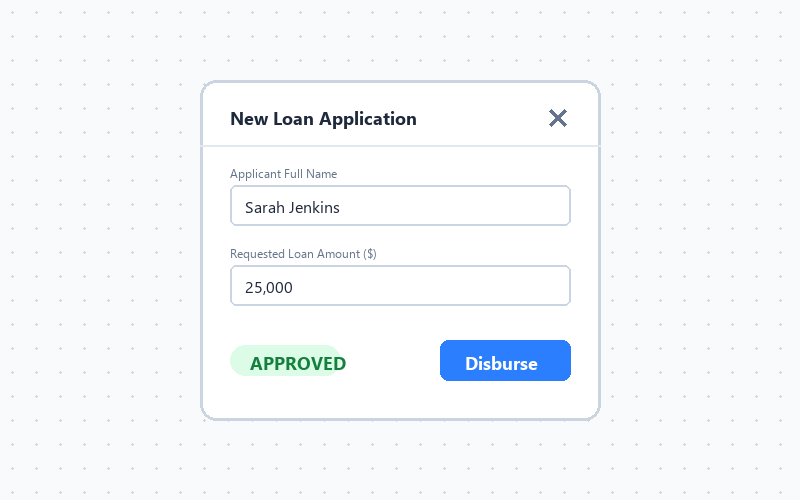
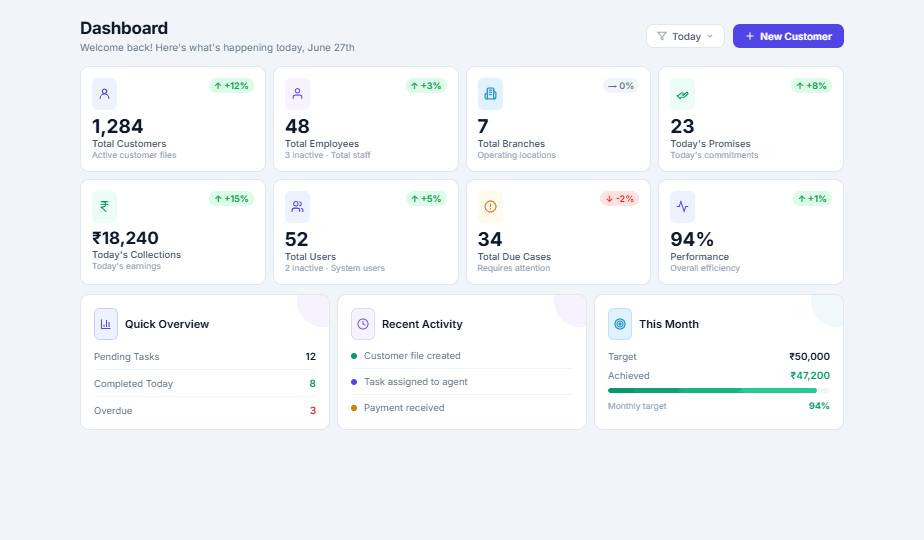
added

diff --git a/app/components/landing/AIOperationsSection.tsx b/app/components/landing/AIOperationsSection.tsx
@@ -23,59 +23,41 @@ interface Feature {
 const FEATURES: Feature[] = [
   {
     no: "01",
-    label: "AI Tele-Calling",
-    badge: "AI Voice Agents",
-    title: "Tele-calling, run end to end by AI",
-    accent: "by AI",
-    desc: "AI agents dial, converse, qualify and log every call — your tele-calling scales without scaling headcount.",
+    label: "HRMS",
+    badge: "HR Suite",
+    title: "Attendance, payroll and leave on autopilot",
+    accent: "on autopilot",
+    desc: "Run attendance, payroll, leave and people ops on autopilot — so your team focuses on people, not paperwork.",
     bullets: [
-      "Human-like AI voice conversations",
-      "Real-time lead qualification & scoring",
-      "Auto call summaries and next steps",
+      "Biometric & geo-fenced attendance",
+      "Automated payroll with PF, ESI & TDS",
+      "Leave workflows & multi-branch management",
     ],
     rows: [
-      { name: "Call — Lead #4821", meta: "AI handled" },
-      { name: "Sentiment: interested", meta: "0.86" },
-      { name: "Follow-up booked", meta: "Tomorrow" },
-    ],
-    comingSoon: true,
-  },
-  {
-    no: "02",
-    label: "AI HRMS",
-    badge: "AI for People Ops",
-    title: "HR that runs itself, powered by AI",
-    accent: "powered by AI",
-    desc: "From smart hiring to attrition prediction and auto-payroll — AI handles people operations end to end.",
-    bullets: [
-      "AI resume screening & shortlisting",
-      "Attrition-risk prediction",
-      "Automated payroll, attendance & leave",
-    ],
-    rows: [
-      { name: "Payroll — June", meta: "Auto-run" },
-      { name: "Attrition risk: 3 flagged", meta: "AI alert" },
-      { name: "5 resumes shortlisted", meta: "AI" },
+      { name: "Payroll — June", meta: "Processed" },
+      { name: "Attendance synced", meta: "Live" },
+      { name: "3 leave requests", meta: "Approved" },
     ],
     href: "/features/hrms",
   },
   {
-    no: "03",
-    label: "AI Task Management",
-    badge: "AI Planner",
-    title: "AI plans the day for your team",
-    accent: "AI plans",
-    desc: "Auto-prioritizes, assigns and flags blockers before they happen — your team always knows what's next.",
+    no: "02",
+    label: "Task Management",
+    badge: "Task Suite",
+    title: "Keep every task on track, end to end",
+    accent: "end to end",
+    desc: "Real-time dashboards, bulk and recurring assignment, and a client ledger that turns completed work into billing — your team always knows what's next.",
     bullets: [
-      "AI auto-prioritization & assignment",
-      "Predictive workload balancing",
-      "Blocker & deadline-risk alerts",
+      "Individual & team task dashboards",
+      "Bulk & recurring task assignment",
+      "Client ledger billing on completion",
     ],
     rows: [
-      { name: "Today: 12 tasks prioritized", meta: "AI" },
-      { name: "Reassigned 3 (overload)", meta: "Auto" },
-      { name: "2 deadline risks flagged", meta: "Alert" },
+      { name: "Today: 12 tasks", meta: "On track" },
+      { name: "Bulk assigned: 8", meta: "Done" },
+      { name: "Ledger entry created", meta: "Billed" },
     ],
+    href: "/features/task-management",
   },
 ];
 
@@ -167,7 +149,7 @@ function Panel({ f, idx }: { f: Feature; idx: number }) {
               </span>
               <span className="inline-flex items-center gap-1.5 rounded-full bg-secondaryColor/20 px-2.5 py-1 text-[0.65rem] font-bold uppercase tracking-wider text-[#8ec0ff]">
                 <span className="h-1.5 w-1.5 rounded-full bg-secondaryColor animate-pulse" />
-                {f.comingSoon ? "Coming Soon" : "AI Live"}
+                {f.comingSoon ? "Coming Soon" : "Live"}
               </span>
             </div>
             <div className="space-y-2.5">
@@ -243,7 +225,7 @@ export default function AIOperationsSection() {
           id: "aiops",
           trigger: rootRef.current,
           start: "top top",
-          end: "+=320%",
+          end: "+=220%",
           scrub: 0.6,
           pin: true,
           anticipatePin: 1,
@@ -262,17 +244,13 @@ export default function AIOperationsSection() {
       // panel 0 in view at start
       reveal(".p0 .p-el", 0.1);
 
-      // slide track to panel 1
-      tl.to(".ops-track", { yPercent: -33.333, duration: 0.8, ease: "power2.inOut" }, 1.2);
+      // slide track to panel 1 (last)
+      tl.to(".ops-track", { yPercent: -50, duration: 0.8, ease: "power2.inOut" }, 1.2);
       reveal(".p1 .p-el", 1.7);
 
-      // slide track to panel 2
-      tl.to(".ops-track", { yPercent: -66.667, duration: 0.8, ease: "power2.inOut" }, 2.7);
-      reveal(".p2 .p-el", 3.2);
-
       // hold + progress
-      tl.fromTo(".ops-progress", { scaleY: 0 }, { scaleY: 1, duration: 4 }, 0);
-      tl.to(".ops-stage", { opacity: 1, duration: 0.8 }, 3.8);
+      tl.fromTo(".ops-progress", { scaleY: 0 }, { scaleY: 1, duration: 2.6 }, 0);
+      tl.to(".ops-stage", { opacity: 1, duration: 0.8 }, 2.4);
     }, rootRef);
 
     const refresh = () => ScrollTrigger.refresh();
@@ -405,7 +383,7 @@ export default function AIOperationsSection() {
         <div className="relative h-40 w-px bg-white/10 overflow-hidden">
           <div className="ops-progress absolute inset-0 origin-top scale-y-0 bg-secondaryColor" />
         </div>
-        <span className="text-[0.65rem] font-mono text-slate-500">03</span>
+        <span className="text-[0.65rem] font-mono text-slate-500">02</span>
       </div>
 
       {/* vertical panel track */}

diff --git a/app/components/landing/AIWorkflowSection.tsx b/app/components/landing/AIWorkflowSection.tsx
@@ -44,6 +44,32 @@ const SCENES: Scene[] = [
       { name: "Follow up with NBFC partner", meta: "Due: Fri" },
     ],
   },
+  {
+    no: "03",
+    label: "AI Tele-Calling",
+    kicker: "AI Voice Agents",
+    title: "Tele-calling, run end to end by AI",
+    desc: "AI agents dial, converse, qualify and log every call — your tele-calling scales without scaling headcount.",
+    nodes: ["Dial", "Converse", "Qualify", "Log"],
+    cards: [
+      { name: "Call — Lead #4821", meta: "AI handled" },
+      { name: "Sentiment: interested", meta: "0.86" },
+      { name: "Follow-up booked", meta: "Tomorrow" },
+    ],
+  },
+  {
+    no: "04",
+    label: "AI Chatbot",
+    kicker: "Always-on support",
+    title: "Customers get instant answers, around the clock",
+    desc: "An AI assistant handles queries, qualifies leads and hands complex cases to a human — instant replies, day or night.",
+    nodes: ["Ask", "Understand", "Answer", "Handoff"],
+    cards: [
+      { name: "Query — EMI due date", meta: "AI replied" },
+      { name: "Lead captured", meta: "Routed" },
+      { name: "Escalated to agent", meta: "Complex" },
+    ],
+  },
 ];
 
 const EMAILS = "FUND FLICK".split("");
@@ -191,7 +217,7 @@ export default function AIWorkflowSection() {
           id: "aiworkflow",
           trigger: rootRef.current,
           start: "top top",
-          end: "+=360%",
+          end: "+=600%",
           scrub: 0.6,
           pin: true,
           anticipatePin: 1,
@@ -247,10 +273,10 @@ export default function AIWorkflowSection() {
           2.8,
         )
 
-        // 4 — slide to scene 2 (track 200vw → -50% = one screen)
+        // 4 — slide to scene 2 (track 400vw → -1/4 = one screen)
         .to(
           ".scene-track",
-          { xPercent: -50, duration: 0.9, ease: "power2.inOut" },
+          { xPercent: -25, duration: 0.9, ease: "power2.inOut" },
           3.4,
         )
         .fromTo(
@@ -267,11 +293,51 @@ export default function AIWorkflowSection() {
           4.2,
         )
 
-        // 5 — hold scene 2 centered before the pin releases
-        .to(".scenes-layer", { opacity: 1, duration: 0.8 }, 4.7)
+        // 5 — slide to scene 3 (-2/4)
+        .to(
+          ".scene-track",
+          { xPercent: -50, duration: 0.9, ease: "power2.inOut" },
+          4.9,
+        )
+        .fromTo(
+          ".s2 .scene-el",
+          { y: 40, opacity: 0 },
+          { y: 0, opacity: 1, stagger: 0.08, duration: 0.5, ease: "power3.out" },
+          5.45,
+        )
+        .to(".c2", { strokeDashoffset: 0, duration: 0.6 }, 5.55)
+        .fromTo(
+          ".s2 .stack-card",
+          { y: 24, opacity: 0 },
+          { y: 0, opacity: 1, stagger: 0.1, duration: 0.5, ease: "power3.out" },
+          5.7,
+        )
+
+        // 6 — slide to scene 4 (-3/4)
+        .to(
+          ".scene-track",
+          { xPercent: -75, duration: 0.9, ease: "power2.inOut" },
+          6.4,
+        )
+        .fromTo(
+          ".s3 .scene-el",
+          { y: 40, opacity: 0 },
+          { y: 0, opacity: 1, stagger: 0.08, duration: 0.5, ease: "power3.out" },
+          6.95,
+        )
+        .to(".c3", { strokeDashoffset: 0, duration: 0.6 }, 7.05)
+        .fromTo(
+          ".s3 .stack-card",
+          { y: 24, opacity: 0 },
+          { y: 0, opacity: 1, stagger: 0.1, duration: 0.5, ease: "power3.out" },
+          7.2,
+        )
+
+        // 7 — hold scene 4 centered before the pin releases
+        .to(".scenes-layer", { opacity: 1, duration: 0.8 }, 7.7)
 
         // progress rail fills across the journey
-        .fromTo(".rail-fill", { scaleX: 0 }, { scaleX: 1, duration: 5.5 }, 0);
+        .fromTo(".rail-fill", { scaleX: 0 }, { scaleX: 1, duration: 8.5 }, 0);
     }, rootRef);
 
     const refresh = () => ScrollTrigger.refresh();
@@ -362,7 +428,7 @@ export default function AIWorkflowSection() {
 
       {/* 3 — scroll-driven feature scenes */}
       <div className="scenes-layer absolute inset-0 flex items-center opacity-0">
-        <div className="scene-track flex w-[200vw]">
+        <div className="scene-track flex w-[400vw]">
           {SCENES.map((s, i) => (
             <div key={s.no} className="w-screen shrink-0 flex items-center">
               <SceneVisual scene={s} idx={i} />

diff --git a/app/components/landing/WhyChoose.tsx b/app/components/landing/WhyChoose.tsx
@@ -180,20 +180,48 @@ export default function WhyChoose() {
   const features: Feature[] = [
     {
       num: "01",
-      title: "Lightning Fast",
-      desc: "Deploy instantly and run operations with sub-second computation latency and real-time state updates.",
+      title: "Anywhere, Everywhere",
+      desc: "Run your entire operation from any device — desktop, tablet or mobile. Fully responsive and always in sync, wherever your team works.",
       bgGlow: "rgba(43, 127, 255, 0.06)",
       visual: (
         <div className="w-full bg-[#131c33] border border-white/10 rounded-xl p-4 font-mono text-[10px] text-white">
           <div className="flex justify-between items-center border-b border-white/5 pb-2 mb-3">
-            <span className="text-slate-400">LATENCY METER</span>
-            <span className="text-emerald-400 font-bold">OPTIMAL</span>
+            <span className="text-slate-400">DEVICE SYNC</span>
+            <span className="text-emerald-400 font-bold">LIVE</span>
           </div>
-          <div className="text-2xl font-bold text-[#2b7fff] tracking-tight font-display">0.02s</div>
-          <div className="text-slate-500 mt-1">Calculations executed</div>
-          <div className="w-full bg-white/10 h-1.5 rounded-full overflow-hidden mt-4">
-            <div className="w-full h-full bg-[#2b7fff] origin-left animate-[gradientShift_2s_infinite]" />
+          <div className="flex items-stretch gap-2 py-1">
+            {[
+              {
+                label: "Desktop",
+                d: "M9 17.25v1.007a3 3 0 0 1-.879 2.122L7.5 21h9l-.621-.621A3 3 0 0 1 15 18.257V17.25m6-12V15a2.25 2.25 0 0 1-2.25 2.25H5.25A2.25 2.25 0 0 1 3 15V5.25m18 0A2.25 2.25 0 0 0 18.75 3H5.25A2.25 2.25 0 0 0 3 5.25m18 0V12a.75.75 0 0 1-.75.75H3.75A.75.75 0 0 1 3 12V5.25",
+              },
+              {
+                label: "Tablet",
+                d: "M10.5 19.5h3m-6.75 2.25h10.5a2.25 2.25 0 0 0 2.25-2.25v-15a2.25 2.25 0 0 0-2.25-2.25H6.75A2.25 2.25 0 0 0 4.5 4.5v15a2.25 2.25 0 0 0 2.25 2.25Z",
+              },
+              {
+                label: "Mobile",
+                d: "M10.5 1.5H8.25A2.25 2.25 0 0 0 6 3.75v16.5a2.25 2.25 0 0 0 2.25 2.25h7.5A2.25 2.25 0 0 0 18 20.25V3.75a2.25 2.25 0 0 0-2.25-2.25H13.5m-3 0V3h3V1.5m-3 0h3",
+              },
+            ].map((dvc) => (
+              <div
+                key={dvc.label}
+                className="flex flex-1 flex-col items-center gap-1.5 rounded-lg bg-white/5 py-2.5"
+              >
+                <svg
+                  className="w-5 h-5 text-[#2b7fff]"
+                  fill="none"
+                  viewBox="0 0 24 24"
+                  stroke="currentColor"
+                  strokeWidth={1.6}
+                >
+                  <path strokeLinecap="round" strokeLinejoin="round" d={dvc.d} />
+                </svg>
+                <span className="text-[8px] text-slate-400">{dvc.label}</span>
+              </div>
+            ))}
           </div>
+          <div className="text-slate-500 mt-3">Synced across all your devices</div>
         </div>
       ),
     },

diff --git a/app/components/landing/AnimatedPipeline.tsx b/app/components/landing/AnimatedPipeline.tsx
@@ -19,6 +19,7 @@ const PRODUCTS: LoanProduct[] = [
   { id: "msme", num: "02", title: "MSME Loan", tag: "Business" },
   { id: "vehicle", num: "03", title: "Vehicle Loan", tag: "Asset-backed" },
   { id: "personal", num: "04", title: "Business & Personal Loan", tag: "Unsecured" },
+ {id: "gold", num: "05", title: "Gold Loan", tag: "Secured"},
   {
     id: "icd",
     num: "05",
@@ -99,7 +100,7 @@ export default function AnimatedPipeline() {
                   </h3>
                 </div>
 
-                <div className="flex items-center gap-5 shrink-0">
+                <div className="hidden">
                   <span className="hidden sm:block text-[0.7rem] uppercase tracking-[0.18em] text-slate-400">
                     {p.tag}
                   </span>

diff --git a/app/components/landing/Hero.tsx b/app/components/landing/Hero.tsx
@@ -13,7 +13,7 @@ const heroFeatures = [
   },
   {
     url: "/hero/hrmsandlms.gif",
-    label: "LMS & HRMS",
+    label: "Loan Mangment System",
     desc: "Employee training & profiles",
   },
   {
@@ -28,7 +28,7 @@ const heroFeatures = [
   },
   {
     url: "/hero/task.gif",
-    label: "Task Workflows",
+    label: "Loan Oriented System",
     desc: "Kanban boards & task checklists",
   },
 ];
